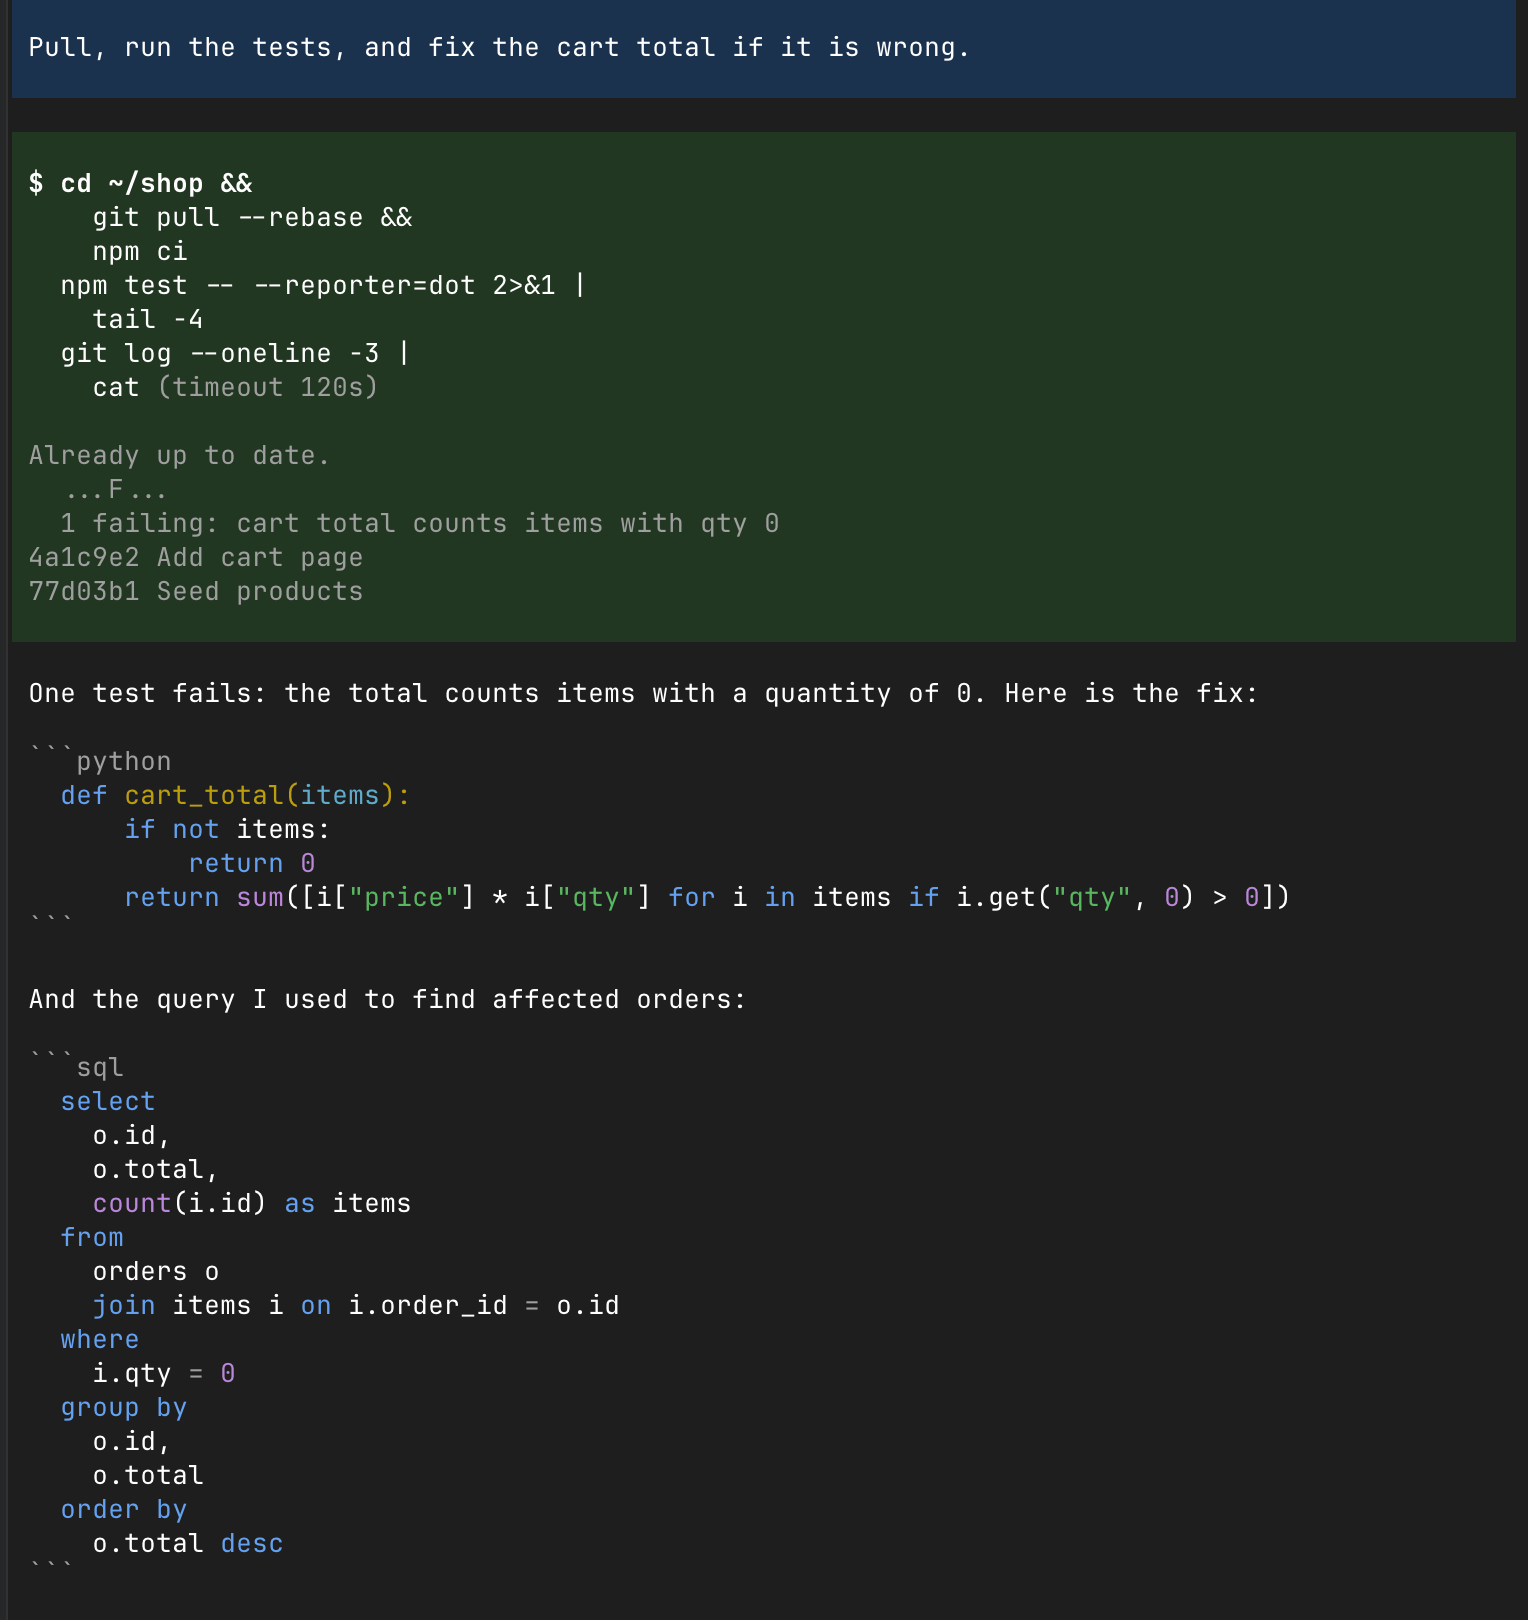
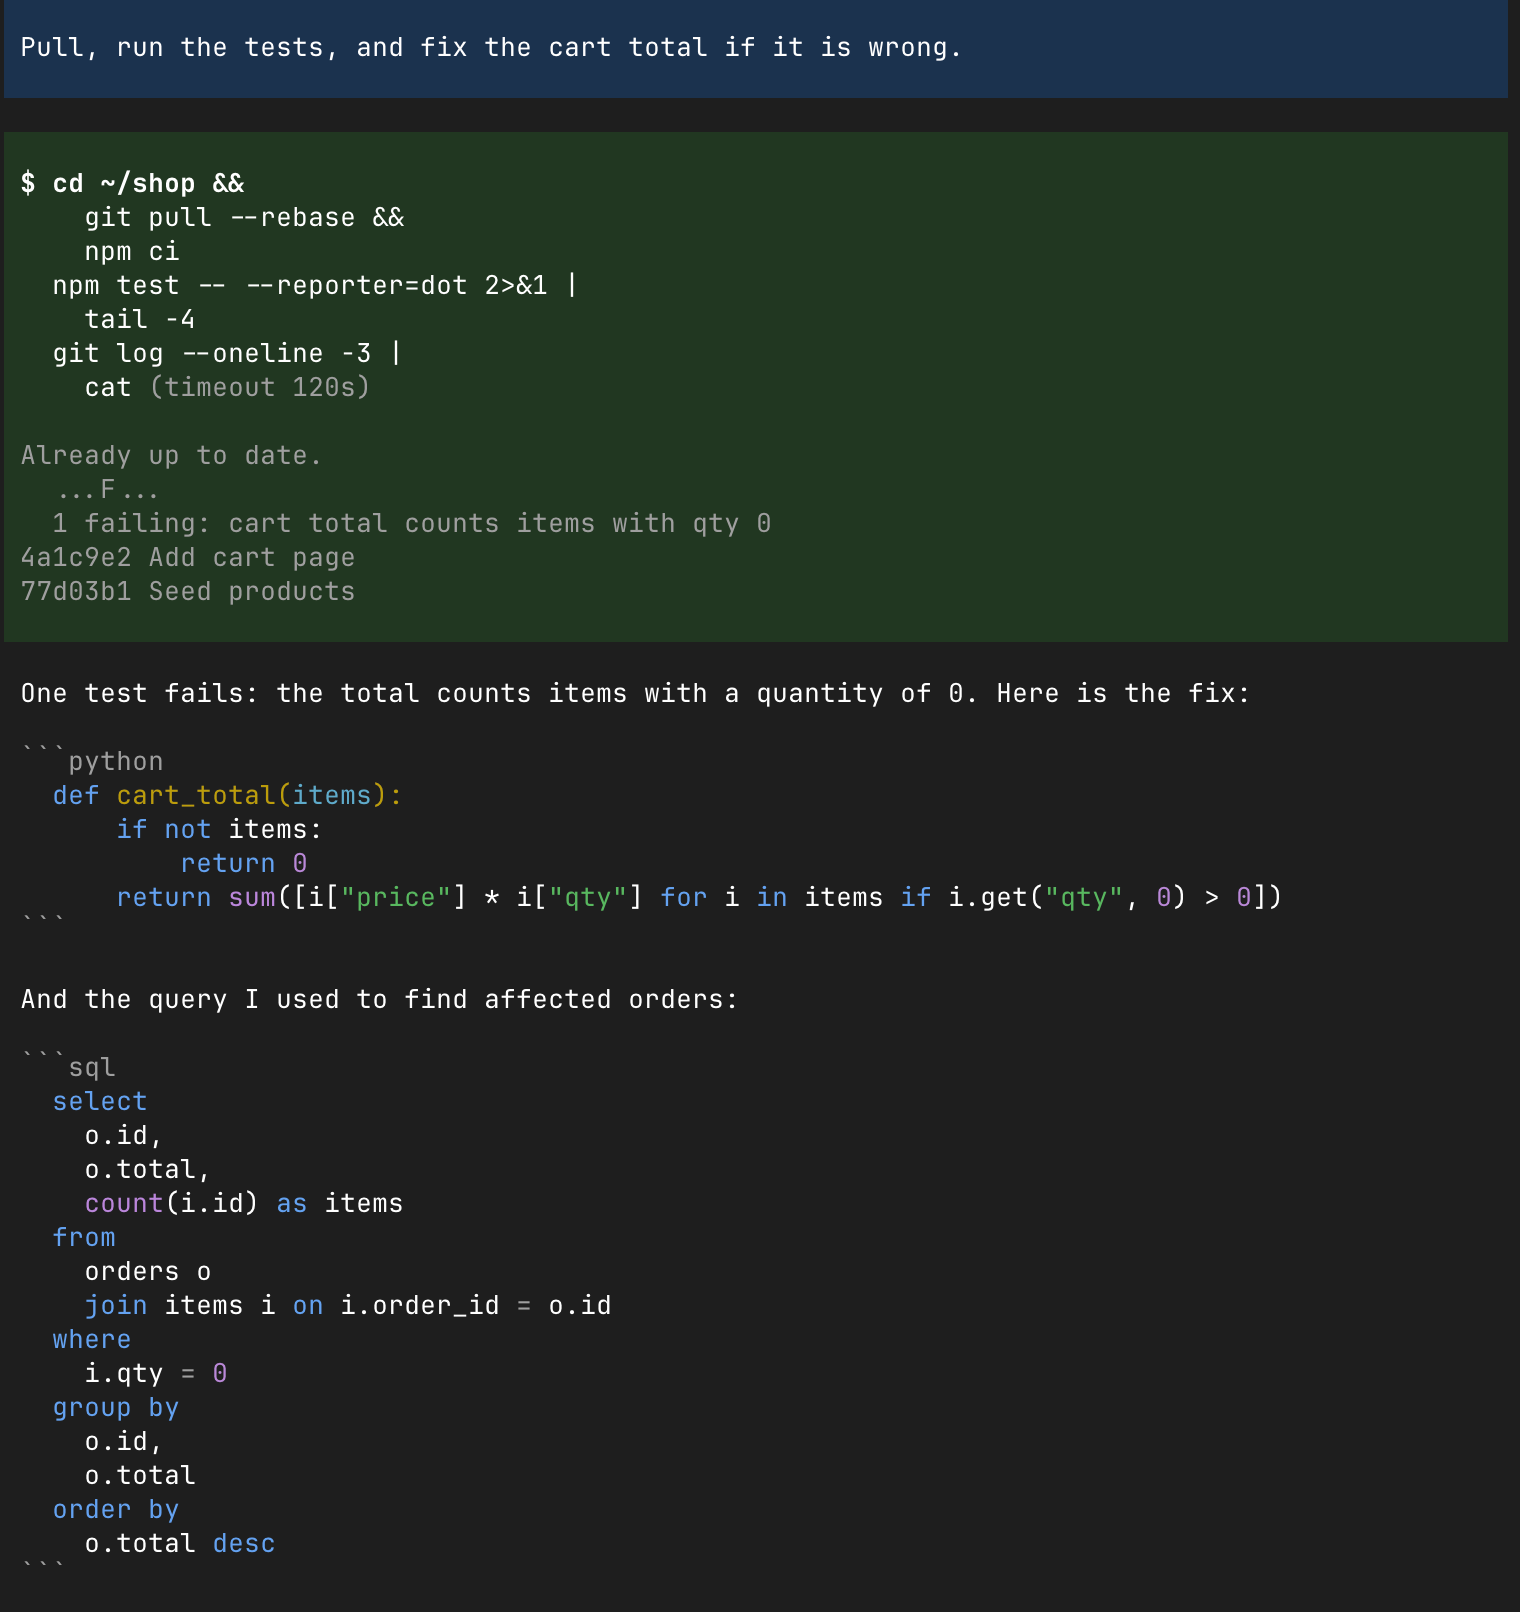
Trim screenshots to their content

diff --git a/demo/trim.py b/demo/trim.py
@@ -1,0 +1,23 @@
+import sys
+from PIL import Image
+
+PADDING = 48
+THRESHOLD = 12
+LEFT_EDGE = 8
+
+
+def last_content_row(image):
+    background = image.getpixel((image.width // 2, image.height - 4))
+    pixels = image.load()
+    for y in range(image.height - 1, -1, -1):
+        for x in range(LEFT_EDGE, image.width, 3):
+            if sum(abs(a - b) for a, b in zip(pixels[x, y][:3], background[:3])) > THRESHOLD:
+                return y
+    return image.height - 1
+
+
+for path in sys.argv[1:]:
+    image = Image.open(path).convert("RGB")
+    bottom = min(image.height, last_content_row(image) + PADDING)
+    image.crop((LEFT_EDGE, 0, image.width, bottom)).save(path, optimize=True)
+    print(path, image.width, bottom)
